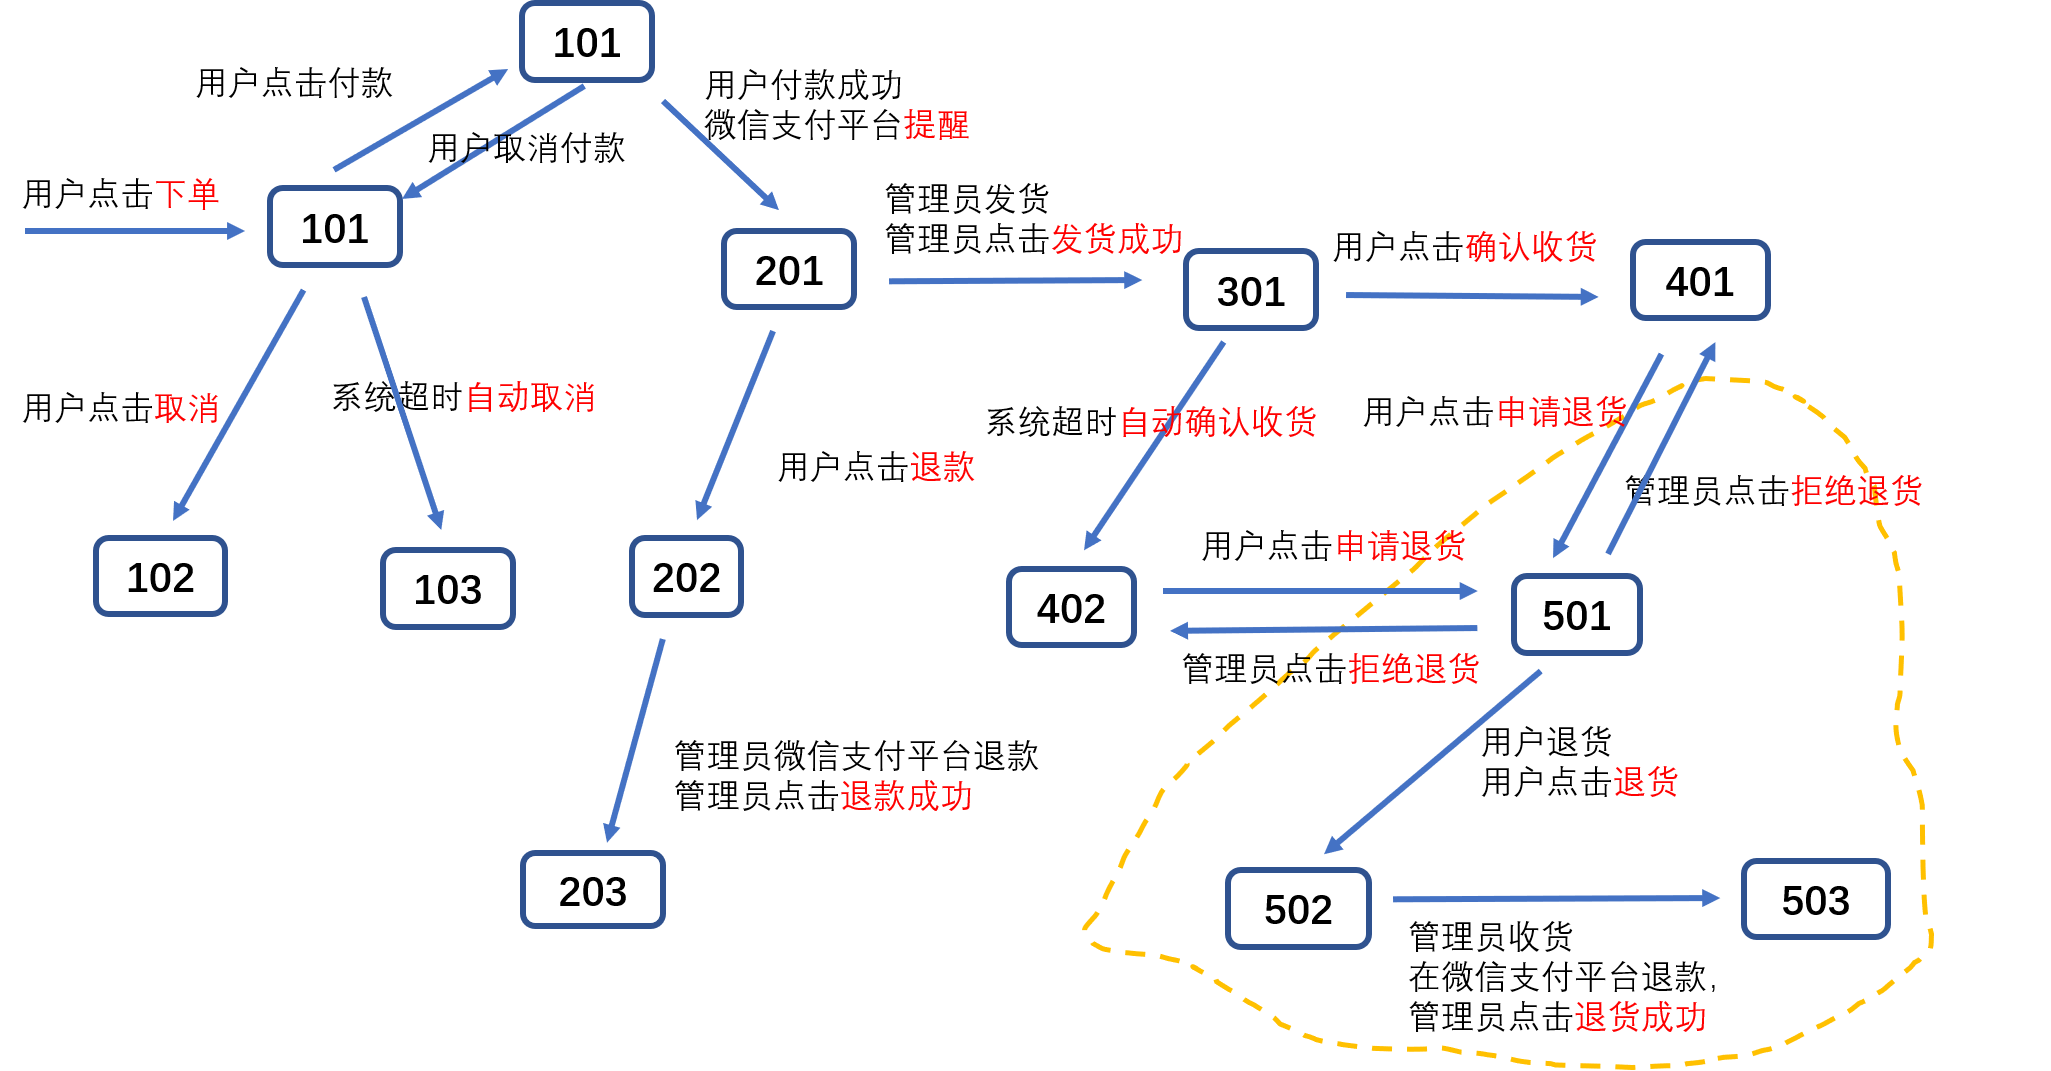
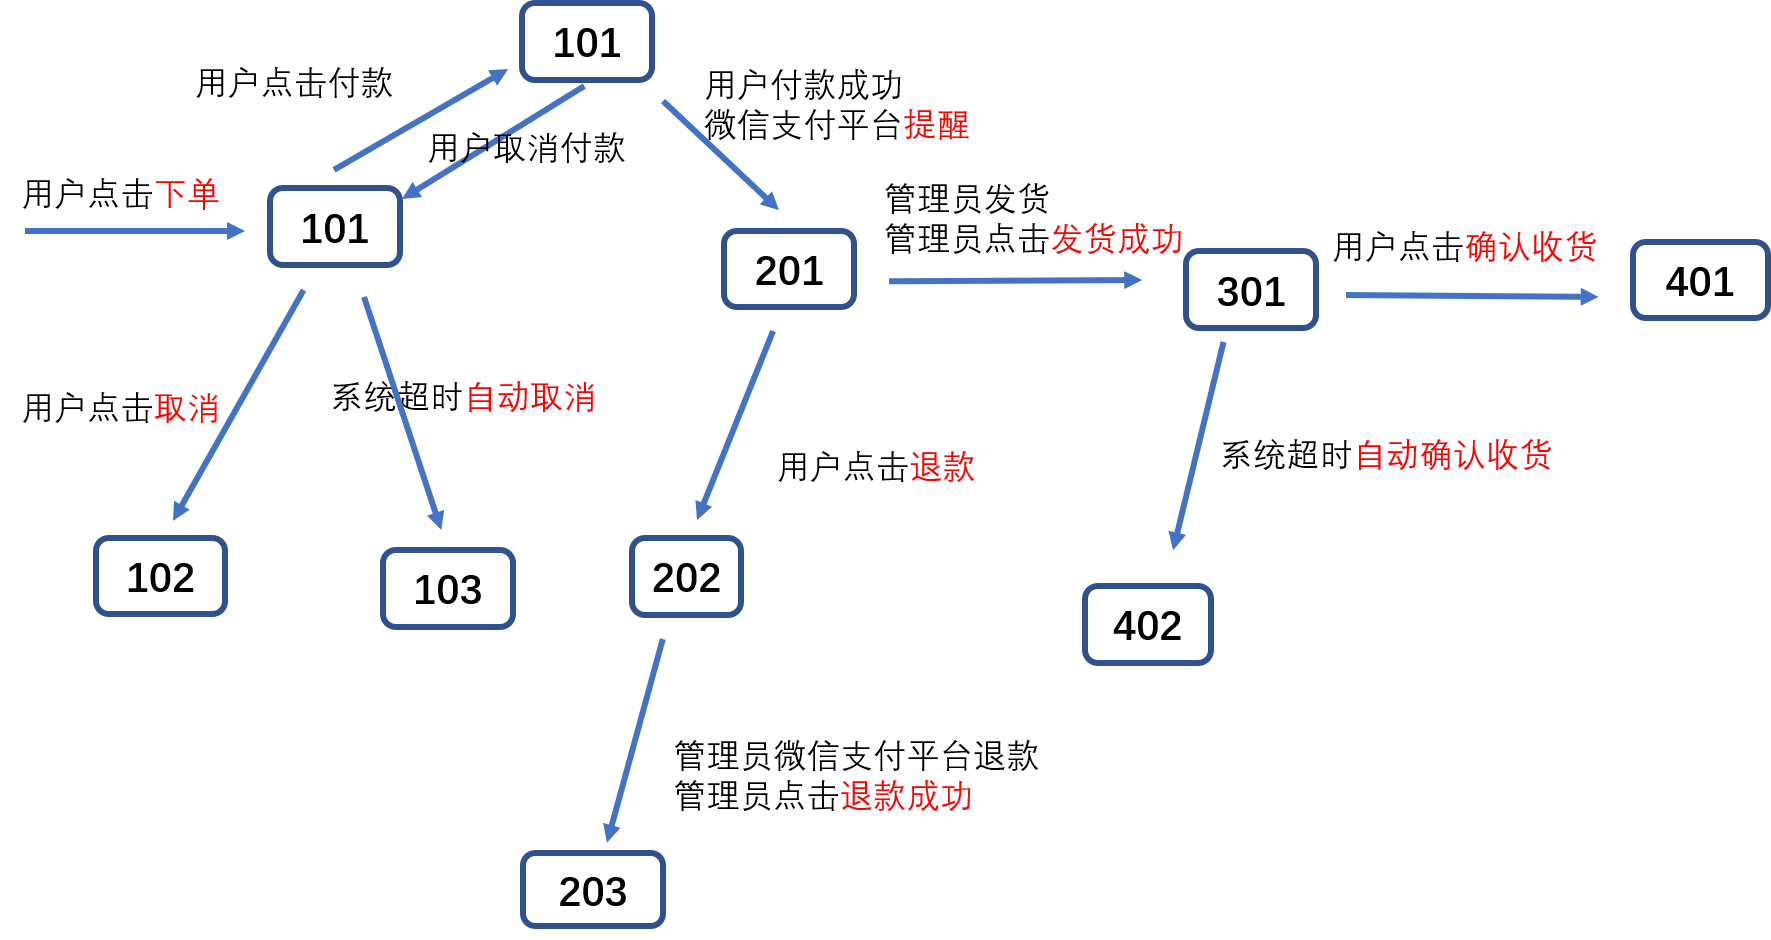
update[doc]: 订单设计相关文档更新。

Changed region(s): [[0.0, 0.0, 1.0, 1.0], [0.8696, 0.3702, 0.9006, 0.4011]]

diff --git a/doc/2.md b/doc/2.md
@@ -193,14 +193,7 @@ litemall.sql数据库基于nideshop中的[nideshop.sql](https://github.com/tumob
   状态码402，用户已签收却不点击确认收货，超期7天以后，则系统自动确认收货。
   用户不能再点击确认收货按钮，但是可以评价订单商品。
 
-* 501
-
-* 502
-
-* 503
-
-
-此外，当订单状态码是102、103、203、401、402和503时，订单可以执行删除操作。
+此外，当订单状态码是102、103、203、401和402时，订单可以执行删除操作。
 目前的设计是不执行物理删除，而是逻辑删除，因此用户查看自己订单时将看不到这些“已删除”的订单。
 
 注意：
@@ -209,21 +202,109 @@ litemall.sql数据库基于nideshop中的[nideshop.sql](https://github.com/tumob
 >    * 用户点击付款时，后台服务会生成预支付会话id，但是不会影响订单状态。
 >    * 而用户支付过程中，放弃支付，例如没有
 
+#### 2.1.4.2 状态变化所对应的流程
+
+*    -> 101
+
+小商场用户在小商场点击`下单`按钮，此时小商城后台服务会生产商户订单。
+
+所对应的后台服务方法是litemall-wx-api模块的`WxOrderController.submit`
+ 
+* 101 -> 101
+
+这里开发者可能会奇怪，这里存在101->101的变化，这里表明后台没有响应
+小程序端的请求，但是这里的响应没有导致订单状态实际的变化。这里所指的
+响应小程序端请求是指下单成功以后小程序端自动请求付款或者用户在订单页面中
+点击`付款`所导致的对后台服务的预支付请求。
+
+关于微信支付流程，可以参看官方文档的[小程序支付业务流程](https://pay.weixin.qq.com/wiki/doc/api/wxa/wxa_api.php?chapter=7_4&index=3)
+也就是说这里小商城后台服务会返回付支付信息。
+
+所对应的后台服务方法是litemall-wx-api模块的`WxOrderController.prepay`
+
+小商城接收返回的预支付信息后，会在小程序端出现支付页面。
+如果用户放弃支付，则不会出现任何效果，不会向小商场后台服务发送任何信息。
+如果用户支付，则会导致微信支付平台向小商场后台服务推送支付结果。
+
+* 101 -> 102
+
+如果用户没有支付，那么此时用户可以点击`取消订单`按钮来放弃当前订单。
+
+所对应的后台服务方法是litemall-wx-api模块的`WxOrderController.cancel`
+
+* 101 -> 103
+
+如果用户没有支付，也没有点击`取消订单`按钮，那么系统会定时查询数据库的订单信息。
+如果发现存在订单未支付状态超时半小时，此时系统会自动取消订单，来释放商品资源。
+
+所对应的后台服务方法是litemall-admin-api模块的`AdminOrderController.checkOrderUnpaid`
+
+* 101 -> 201
+
+如果用户支付，微信支付平台会向小商场后台服务推送支付结果。
+而响应结果表示支付成功，则订单状态信息设置201，表示支付成功。
+
+所对应的后台服务方法是litemall-wx-api模块的`WxOrderController.payNotify`
+
+* 201 -> 202
+
+当用户支付以后，管理员未发货前，用户可以点击`退款`申请退款取消订单。
+通常用户点击退款以后系统可以基于微信支付平台的退款接口实现自动退款，
+但是这里考虑到安全原因，不支持系统自动退款操作。
+相应地，这里小商场后台服务只是设置订单状态，表示退款申请中。
+
+所对应的后台服务方法是litemall-wx-api模块的`WxOrderController.refund`
+
+* 202 -> 203
+
+这里退款操作是由管理员在微信支付平台手动退款，然后在本项目的
+管理平台里面点击`退款确认`按钮，此时订单状态会设置成203，表明
+退款已经成功，同时系统会自动恢复订单商品数量。
+
+所对应的后台服务方法是litemall-admin-api模块的`AdminOrderController.refundConfirm`
+
+* 201 -> 301
+
+当订单支付以后，管理员进行订单发货，然后在管理平台点击`发货`，填写快递信息，
+设置订单状态是301，表示管理员已发货状态。
+
+所对应的后台服务方法是litemall-admin-api模块的`AdminOrderController.ship`
+
+* 301 -> 401
+
+当用户收到商品以后，用户点击`收货确认`按钮，设置订单状态401，表示用户成功收货。
+
+所对应的后台服务方法是litemall-wx-api模块的`WxOrderController.confirm`
+
+* 301 -> 402
+
+当管理员发货以后，用户一直没有确认收货，系统定时检测订单状态，如果发现发货以后
+七天用户都没有收货，此时系统自动确认用户收货，设置订单状态402。
+
+所对应的后台服务方法是litemall-admin-api模块的`AdminOrderController.checkOrderUnpaid`
+
+
+注意：
+> 上述订单状态变化中具体的逻辑处理可以参考相应模块文档和模块代码。
+
 #### 2.1.4.2 状态码所支持的用户操作
 
-状态码标识了订单的状态，但是对于用户而言，真正关心的只是他们能够进行的操作：
+状态码标识了订单的状态，但是对于用户而言，真正关心的只是他们能够进行的操作，
+也就是在小商场的小程序端用户可以进行点击的按钮操作，目前支持：
 
-* `支付`，即下单后，用户可以进行支付
-* `取消`，即用户未支付，可以取消当前订单
-* `退款`，即用户支付后，可以申请退款
-* `确认收货`，即用户收货以后，可以确认已收货
-* `申请退货`，即用户确认收货以后，可以申请退货
-* `评价`，即用户确认收货以后，可以对已购买商品评价
-* `再次购买`，即用户确认收货以后，可以快速购买已购买过的商品
-* `删除`，即用户可以想要删除自己的订单信息
-
-这些操作其实就是订单页面中的相应按钮，如果当前用户操作可以执行，则按钮就会出现。
-
+* `支付`，如果下单后未立即支付，则订单详情页面会出现`支付`按钮；
+* `取消`，如果用户未支付，则订单详情页面会出现`取消`按钮；
+* `退款`，如果用户支付后但是管理员未发货，则订单详情页面会出现`退款`按钮；
+* `确认收货`，如果管理员已发货，则订单详情页面会出现`确认收货`按钮；
+* `申请退货`，如果用户已经确认收货同时未超过一段时间，则订单详情页面会出现`申请退货`按钮；
+   注意，这里如果是系统超时自动确认收货，则不会出现；
+* `去评价`，如果用户确认收货以后，则订单详情页面会出现`去评价`按钮；
+   注意，这里如果是系统超时自动确认收货，则也会出现；
+* `再次购买`，如果用户确认收货以后，则订单详情页面会出现`再次购买`按钮；
+   注意，这里如果是系统超时自动确认收货，则也会出现；
+* `删除`，如果当前订单状态码是102、103、203、401和402时，则订单详情页面会出现`删除订单`按钮；
+   注意，这里的删除操作是逻辑删除，即设置订单的删除状态`deleted`。
+  
 因此订单状态码和小商场用户操作之间存在映射关系：
 
 * 101
@@ -248,18 +329,20 @@ litemall.sql数据库基于nideshop中的[nideshop.sql](https://github.com/tumob
 
 * 301
 
-  用户可以“确认收货”
+  用户可以`确认收货`
 
 * 401
-  用户可以“订单删除”、“评价”、“再次购买”
+  用户可以`退货`、`删除`、`去评价`、`再次购买`
 
 * 402
 
-  用户可以“订单删除”、“评价”、“再次购买”
+  用户可以`删除`、`去评价`、`再次购买`
+
+开发者可以参考litemall-db模块的OrderUtil类。
 
 #### 2.1.4.3 售后处理
 
-目前不支持售后或退货相关业务。
+虽然这里用户有`退款`操作，但是目前不支持退货相关业务。
 
 #### 2.1.4.4 黑名单
 

diff --git a/doc/7.md b/doc/7.md
@@ -39,6 +39,44 @@
 2. 第三者手机小商场的**调试功能**开启
 3. 在微信小程序平台设置第三者的微信账号是**体验者**
 
-### 管理后台
+#### 7.1.4 小商场为什么不能支付，或者为什么点击支付总是报错？
 
-### 基础平台
+原因：
+
+开发者必须拥有商户支付权限，然后设置好以下信息：
+```
+wx.app-id=
+wx.app-secret=
+wx.mch-id=
+wx.mch-key=
+wx.notify-url=
+```
+
+解决方案：
+
+参考`3.0 小商场环境`，设置好相应支付配置信息
+
+#### 7.1.5 为什么小商城支付成功，但是返回以后商品订单？
+
+现象：
+
+在微信开发者工具中已经成功支付，但是返回订单页面时商品订单仍然显示`未付款`状态。
+
+原因是：
+
+微信平台支付成功以后，会把支付结果推送到`wx.notify-url`所指定的地址。
+因此，开发者必须确定`wx.notify-url`所指向的访问链接是可以成功访问，同时
+能够返回正常的响应结果。
+
+解决方案：
+
+1. 如果开发者是在微信开发者工具中测试支付，那么需要采用一些内网穿透工具，
+把`WxOrderController.payNotify`所代表的本地地址，例如`http://localhots/wx/order/pay-notify`,
+转换成外网可以访问的地址，例如`http://xxx.com/wx/order/pay-notify`，最后
+设置`wx.notify-url`指向该地址。
+
+2. 如果开发者已经上线服务，请确认`wx.notify-url`所指向的访问链接可以正常工作。
+
+## 7.2 管理后台
+
+## 7.3 基础平台
